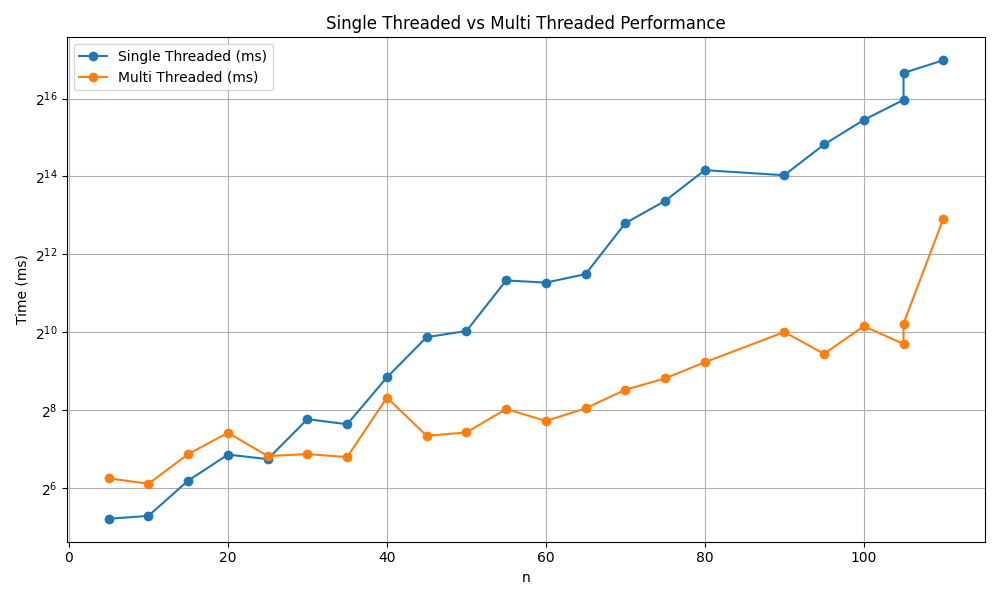
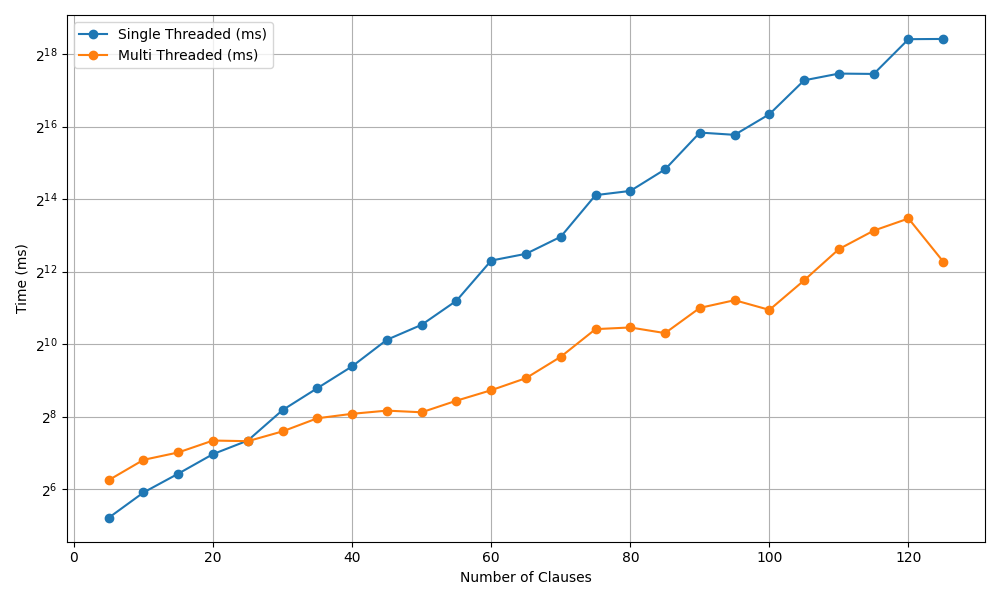
Switched to averaged results.csv and added performance improvement graph

diff --git a/docs/graph.py b/docs/graph.py
@@ -8,12 +8,21 @@ df = pd.read_csv("docs/results.csv")
 plt.figure(figsize=(10, 6))
 plt.plot(df["n"], df["Single Threaded(ms)"], marker="o", label="Single Threaded (ms)")
 plt.plot(df["n"], df["Multi Threaded (ms)"], marker="o", label="Multi Threaded (ms)")
-
-plt.xlabel("n")
+plt.xlabel("Number of Clauses")
 plt.ylabel("Time (ms)")
 plt.yscale("log", base=2)
-plt.title("Single Threaded vs Multi Threaded Performance")
 plt.legend()
 plt.grid(True)
 plt.tight_layout()
 plt.savefig("docs/performance_graph.png")
+
+
+# plot the performacne imrovement over single threaded
+df["improvement"] = df["Single Threaded(ms)"] / df["Multi Threaded (ms)"]
+plt.figure(figsize=(10, 6))
+plt.plot(df["n"], df["improvement"], marker="o")
+plt.xlabel("Number of Clauses")
+plt.ylabel("Improvement")
+plt.grid(True)
+plt.tight_layout()
+plt.savefig("docs/performance_improvement.png")
